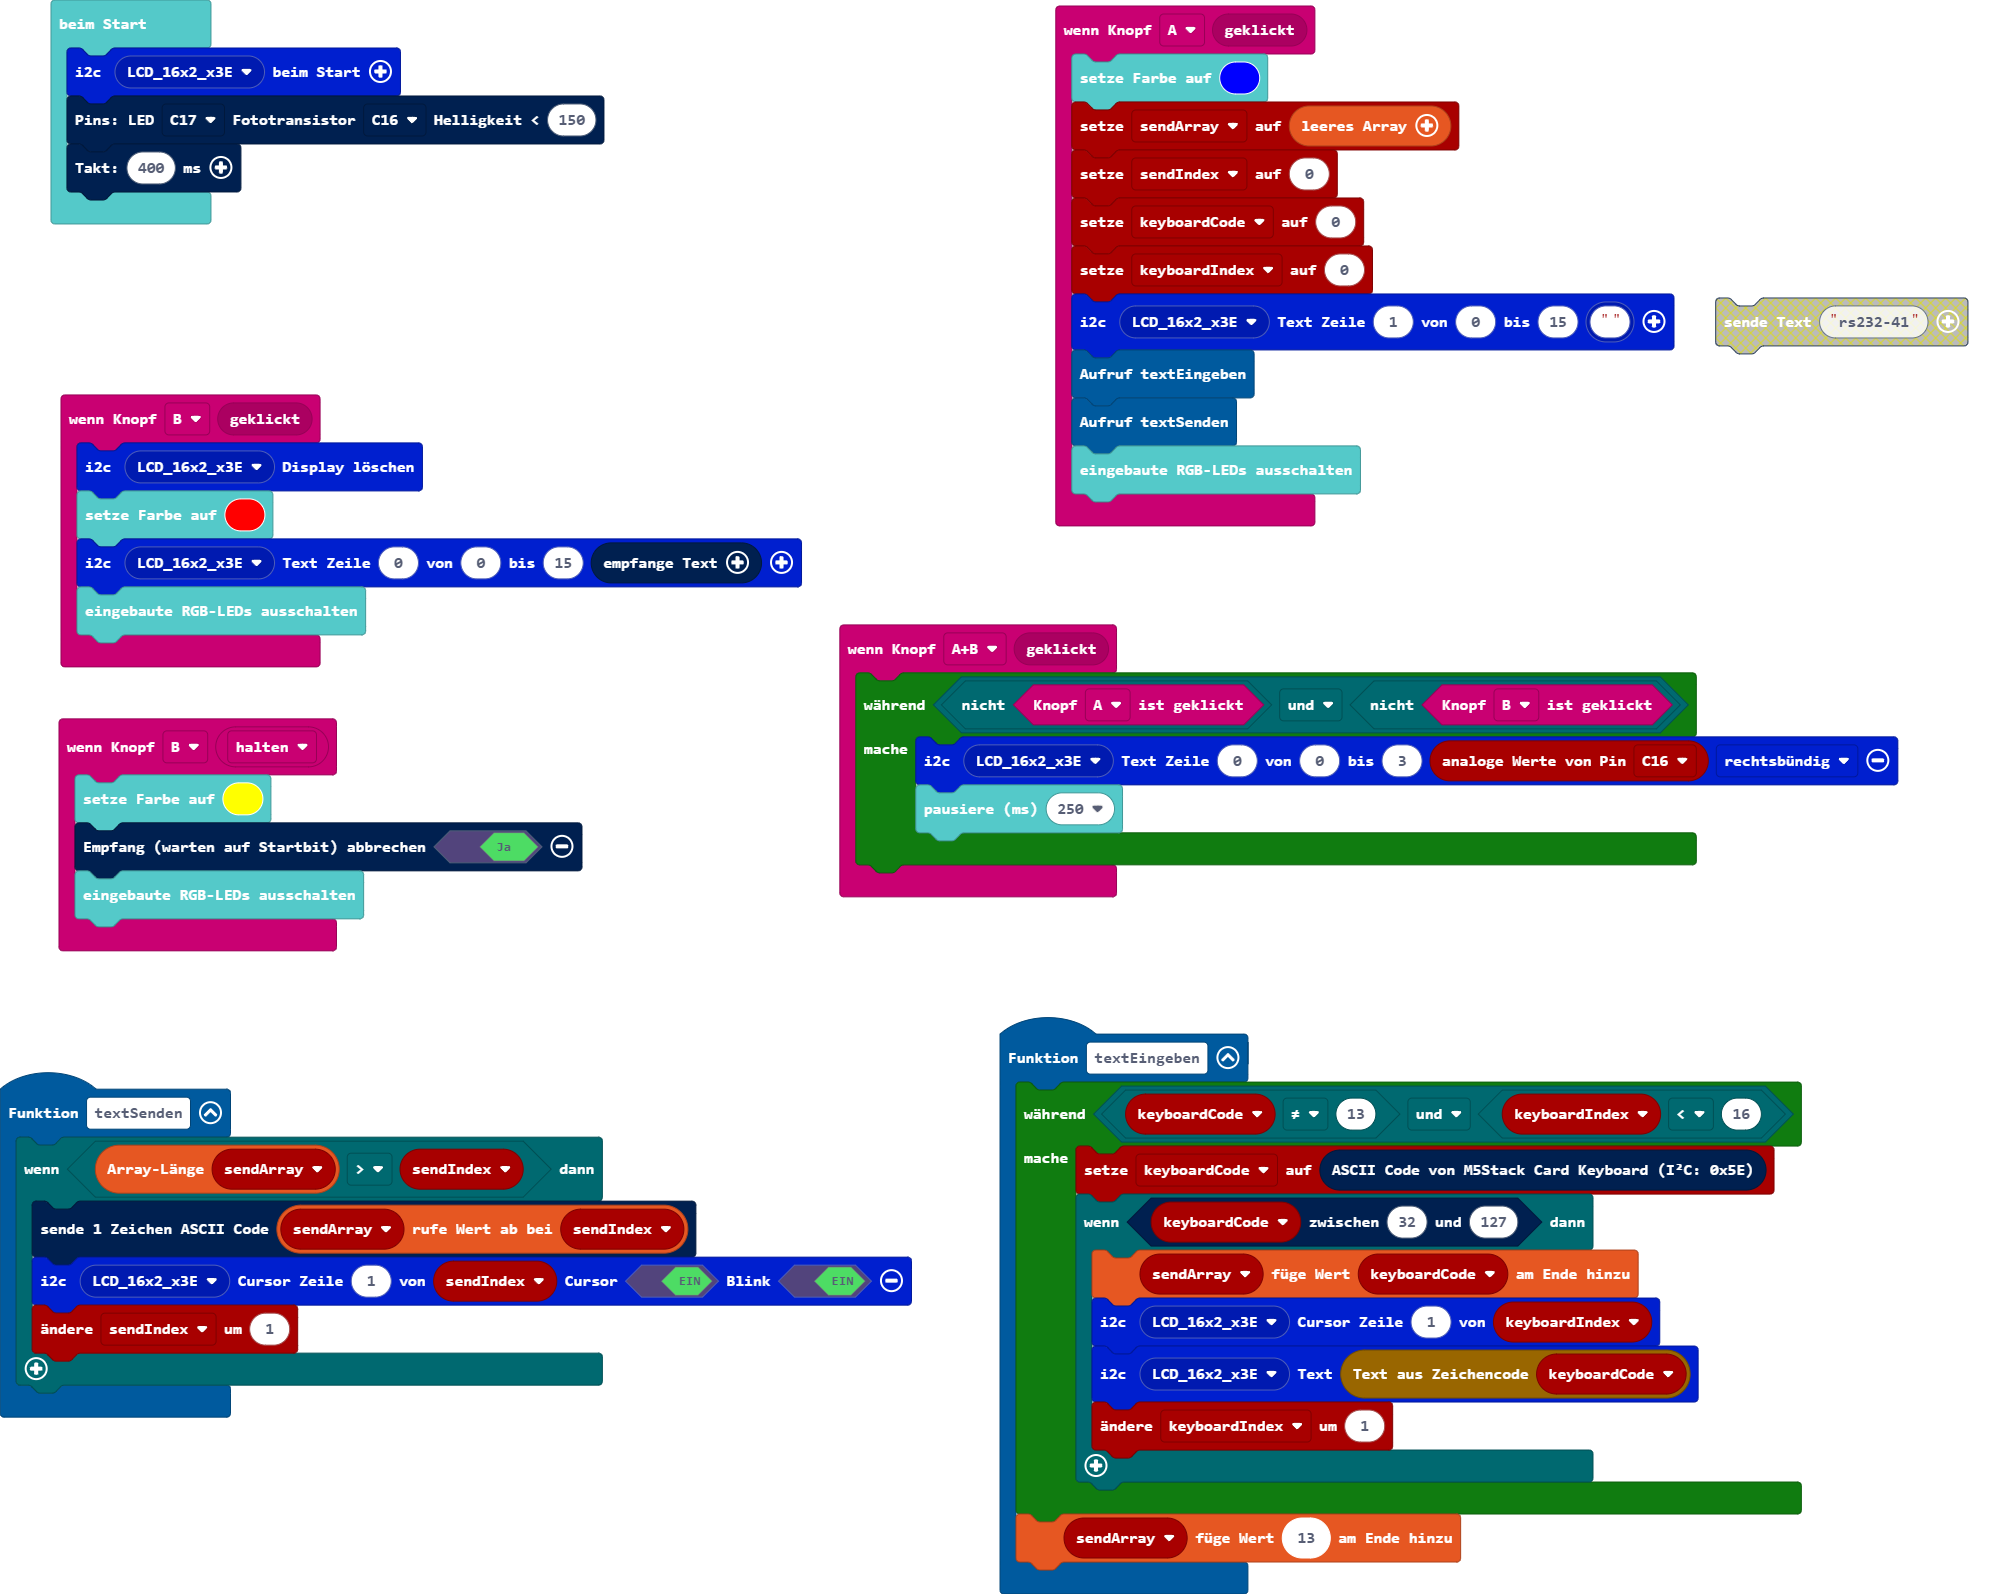
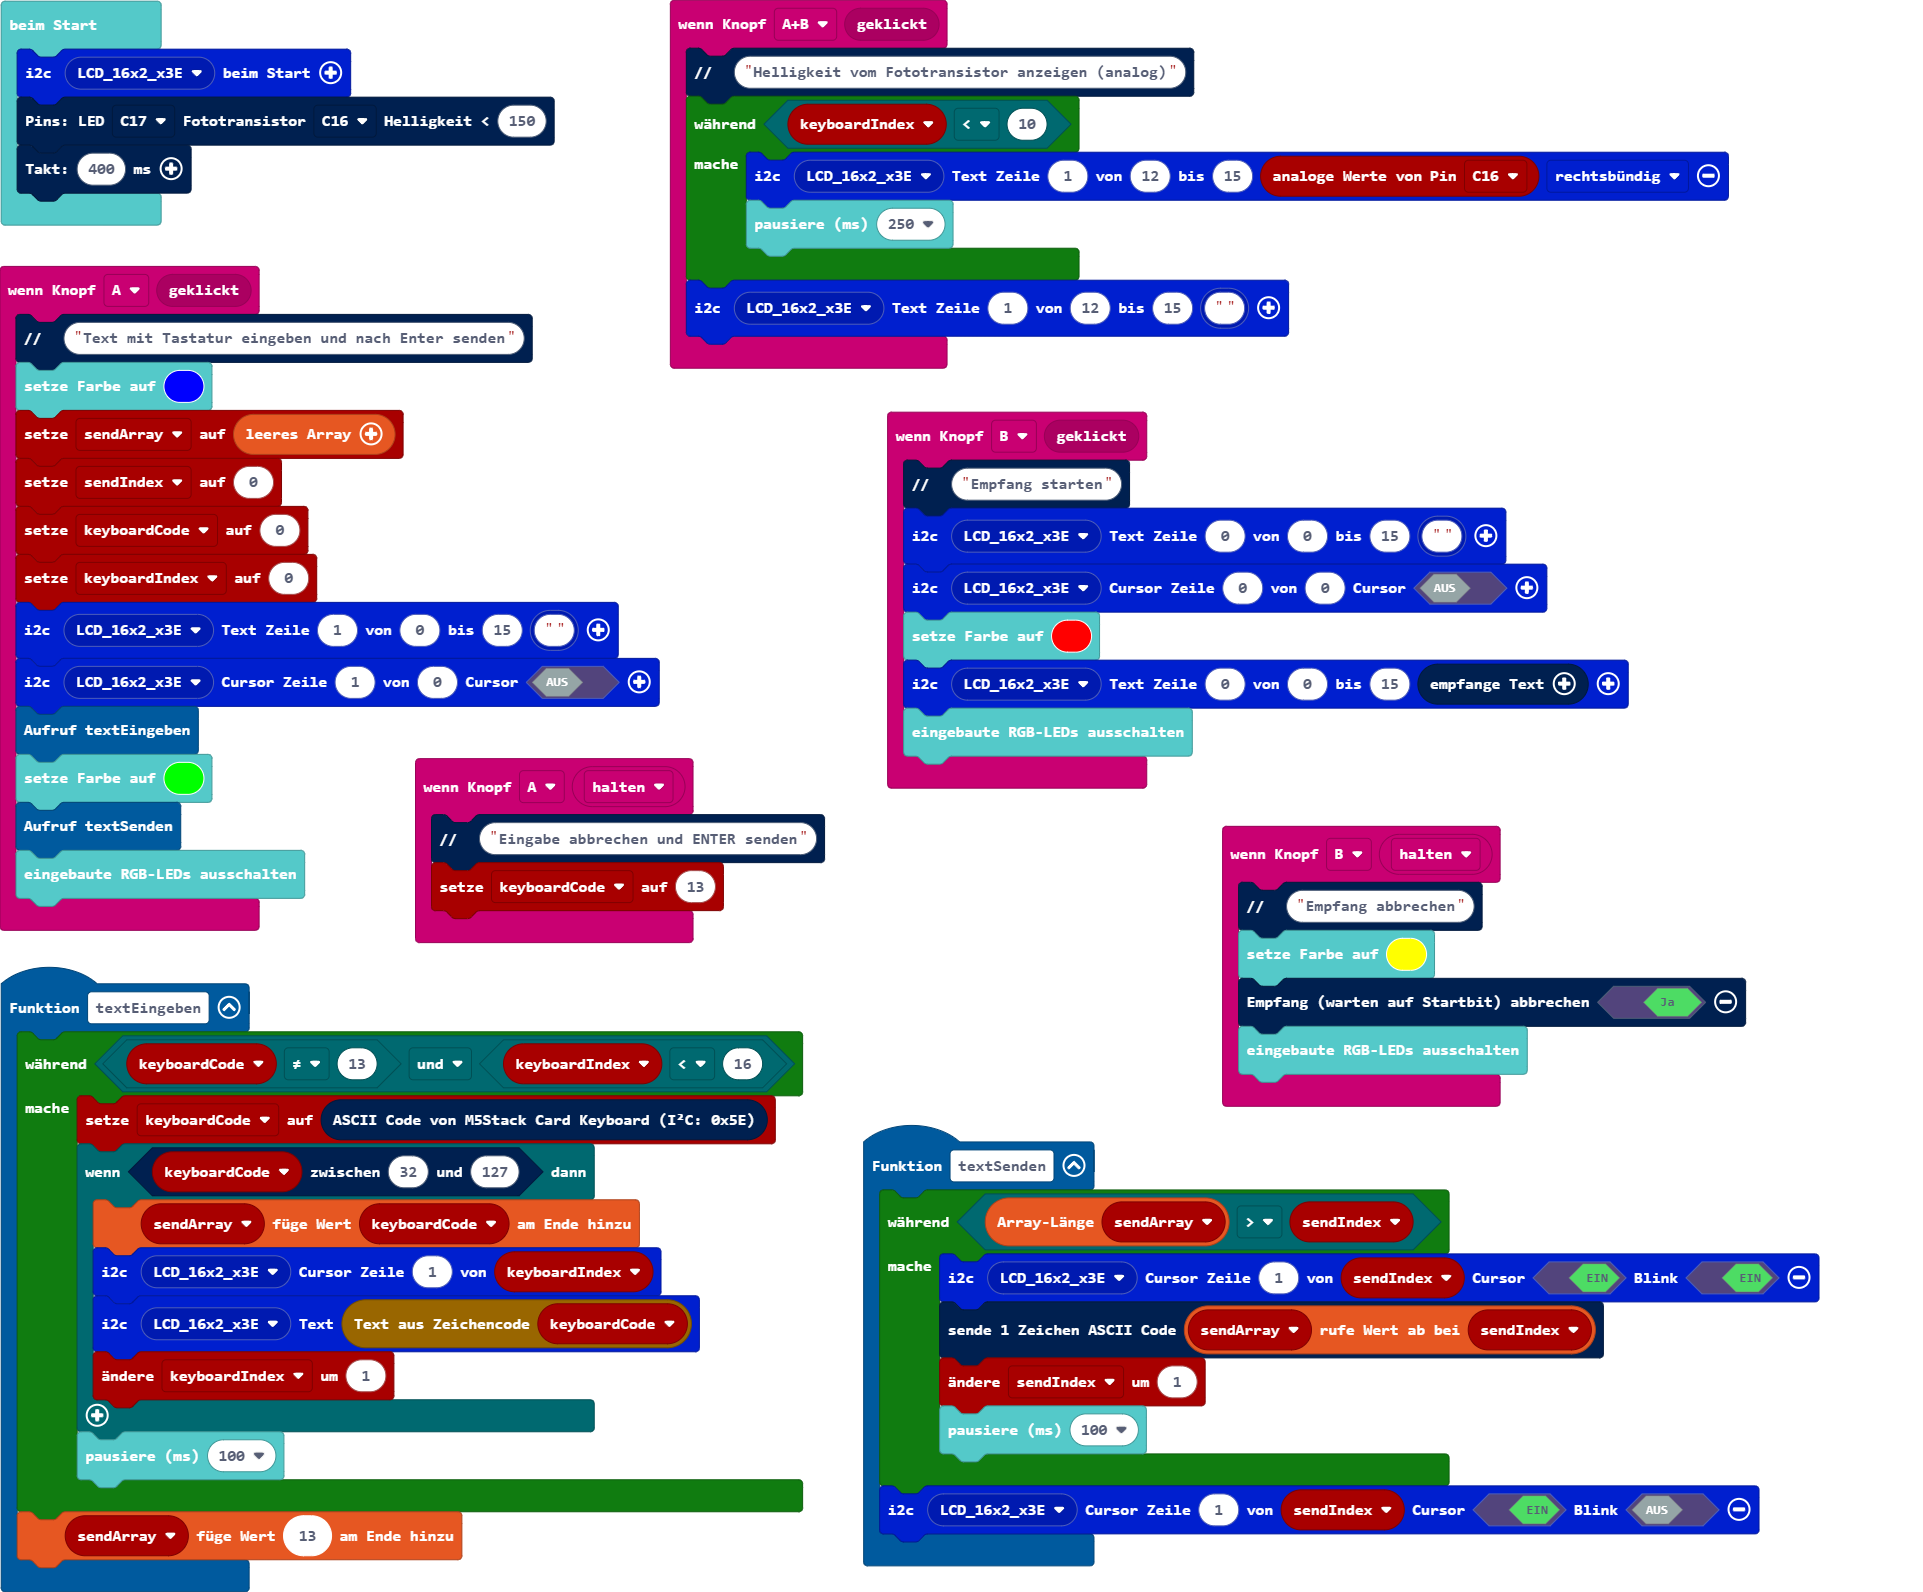
Aktualisiere main.blocks, main.ts

diff --git a/main.ts b/main.ts
@@ -1,34 +1,48 @@
 input.onButtonEvent(Button.A, input.buttonEventClick(), function () {
+    rs232.comment("Text mit Tastatur eingeben und nach Enter senden")
     basic.setLedColor(0x0000ff)
     sendArray = []
     sendIndex = 0
     keyboardCode = 0
     keyboardIndex = 0
     lcd16x2rgb.writeText(lcd16x2rgb.lcd16x2_eADDR(lcd16x2rgb.eADDR_LCD.LCD_16x2_x3E), 1, 0, 15, lcd16x2rgb.lcd16x2_text(""))
+    lcd16x2rgb.setCursorCB(lcd16x2rgb.lcd16x2_eADDR(lcd16x2rgb.eADDR_LCD.LCD_16x2_x3E), 1, 0, false)
     textEingeben()
+    basic.setLedColor(0x00ff00)
     textSenden()
     basic.turnRgbLedOff()
 })
 function textSenden () {
-    if (sendArray.length > sendIndex) {
-        rs232.sendeAsc(sendArray[sendIndex])
+    while (sendArray.length > sendIndex) {
         lcd16x2rgb.setCursorCB(lcd16x2rgb.lcd16x2_eADDR(lcd16x2rgb.eADDR_LCD.LCD_16x2_x3E), 1, sendIndex, true, true)
+        rs232.sendeAsc(sendArray[sendIndex])
         sendIndex += 1
+        basic.pause(100)
     }
+    lcd16x2rgb.setCursorCB(lcd16x2rgb.lcd16x2_eADDR(lcd16x2rgb.eADDR_LCD.LCD_16x2_x3E), 1, sendIndex, true, false)
 }
 input.onButtonEvent(Button.AB, input.buttonEventClick(), function () {
-    while (!(input.buttonIsPressed(Button.A)) && !(input.buttonIsPressed(Button.B))) {
-        lcd16x2rgb.writeText(lcd16x2rgb.lcd16x2_eADDR(lcd16x2rgb.eADDR_LCD.LCD_16x2_x3E), 0, 0, 3, pins.analogReadPin(AnalogPin.C16), lcd16x2rgb.eAlign.right)
+    rs232.comment("Helligkeit vom Fototransistor anzeigen (analog)")
+    while (keyboardIndex < 10) {
+        lcd16x2rgb.writeText(lcd16x2rgb.lcd16x2_eADDR(lcd16x2rgb.eADDR_LCD.LCD_16x2_x3E), 1, 12, 15, pins.analogReadPin(AnalogPin.C16), lcd16x2rgb.eAlign.right)
         basic.pause(250)
     }
+    lcd16x2rgb.writeText(lcd16x2rgb.lcd16x2_eADDR(lcd16x2rgb.eADDR_LCD.LCD_16x2_x3E), 1, 12, 15, lcd16x2rgb.lcd16x2_text(""))
 })
 input.onButtonEvent(Button.B, input.buttonEventClick(), function () {
-    lcd16x2rgb.clearScreen(lcd16x2rgb.lcd16x2_eADDR(lcd16x2rgb.eADDR_LCD.LCD_16x2_x3E))
+    rs232.comment("Empfang starten")
+    lcd16x2rgb.writeText(lcd16x2rgb.lcd16x2_eADDR(lcd16x2rgb.eADDR_LCD.LCD_16x2_x3E), 0, 0, 15, lcd16x2rgb.lcd16x2_text(""))
+    lcd16x2rgb.setCursorCB(lcd16x2rgb.lcd16x2_eADDR(lcd16x2rgb.eADDR_LCD.LCD_16x2_x3E), 0, 0, false)
     basic.setLedColor(0xff0000)
     lcd16x2rgb.writeText(lcd16x2rgb.lcd16x2_eADDR(lcd16x2rgb.eADDR_LCD.LCD_16x2_x3E), 0, 0, 15, rs232.empfangeText())
     basic.turnRgbLedOff()
 })
+input.onButtonEvent(Button.A, ButtonEvent.Hold, function () {
+    rs232.comment("Eingabe abbrechen und ENTER senden")
+    keyboardCode = 13
+})
 input.onButtonEvent(Button.B, ButtonEvent.Hold, function () {
+    rs232.comment("Empfang abbrechen")
     basic.setLedColor(0xffff00)
     rs232.empfangAbbrechen(true)
     basic.turnRgbLedOff()
@@ -42,6 +56,7 @@ function textEingeben () {
             lcd16x2rgb.writeLCD(lcd16x2rgb.lcd16x2_eADDR(lcd16x2rgb.eADDR_LCD.LCD_16x2_x3E), String.fromCharCode(keyboardCode))
             keyboardIndex += 1
         }
+        basic.pause(100)
     }
     sendArray.push(13)
 }
